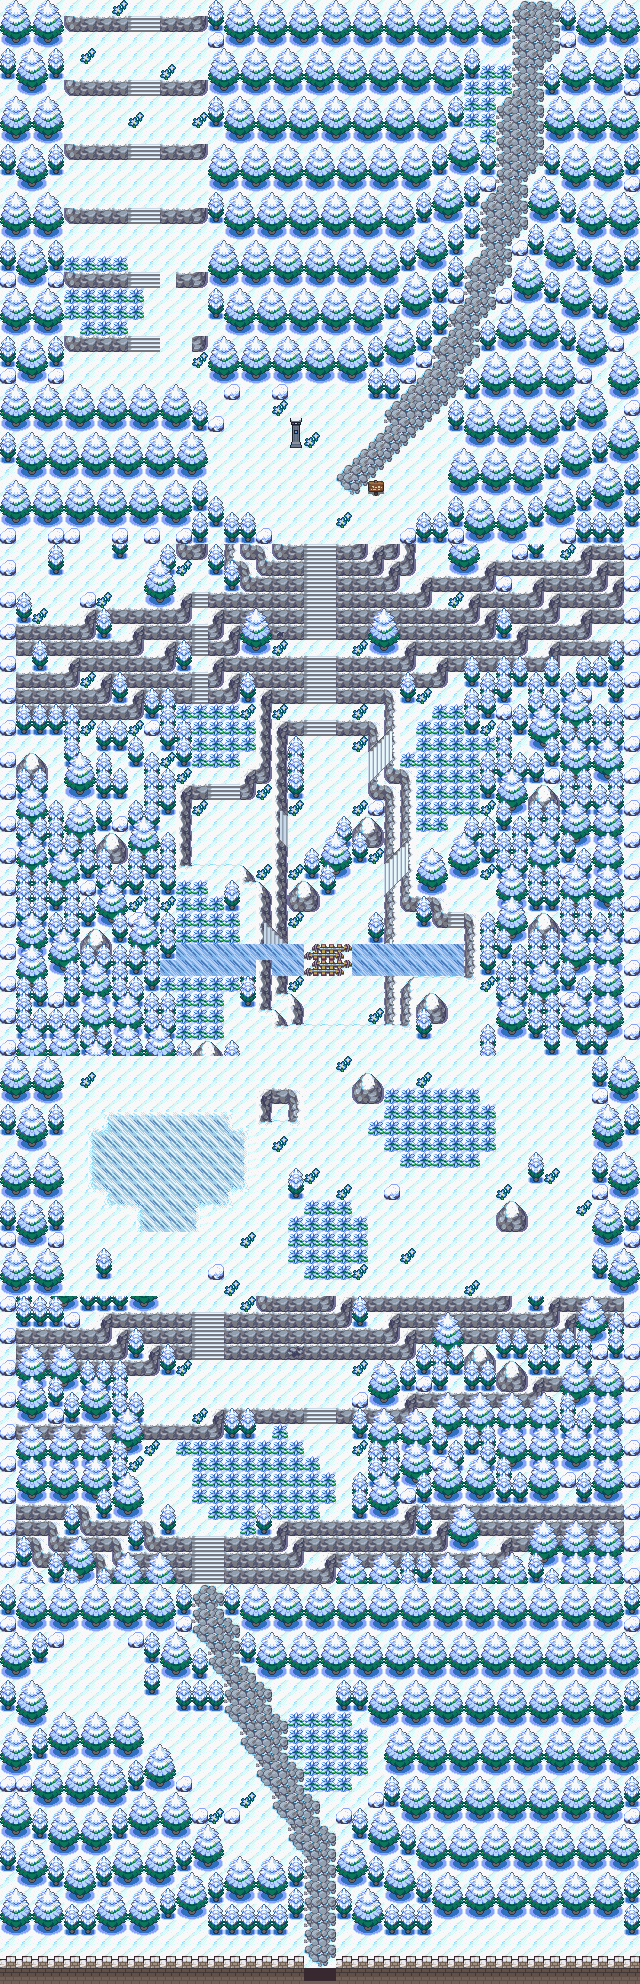
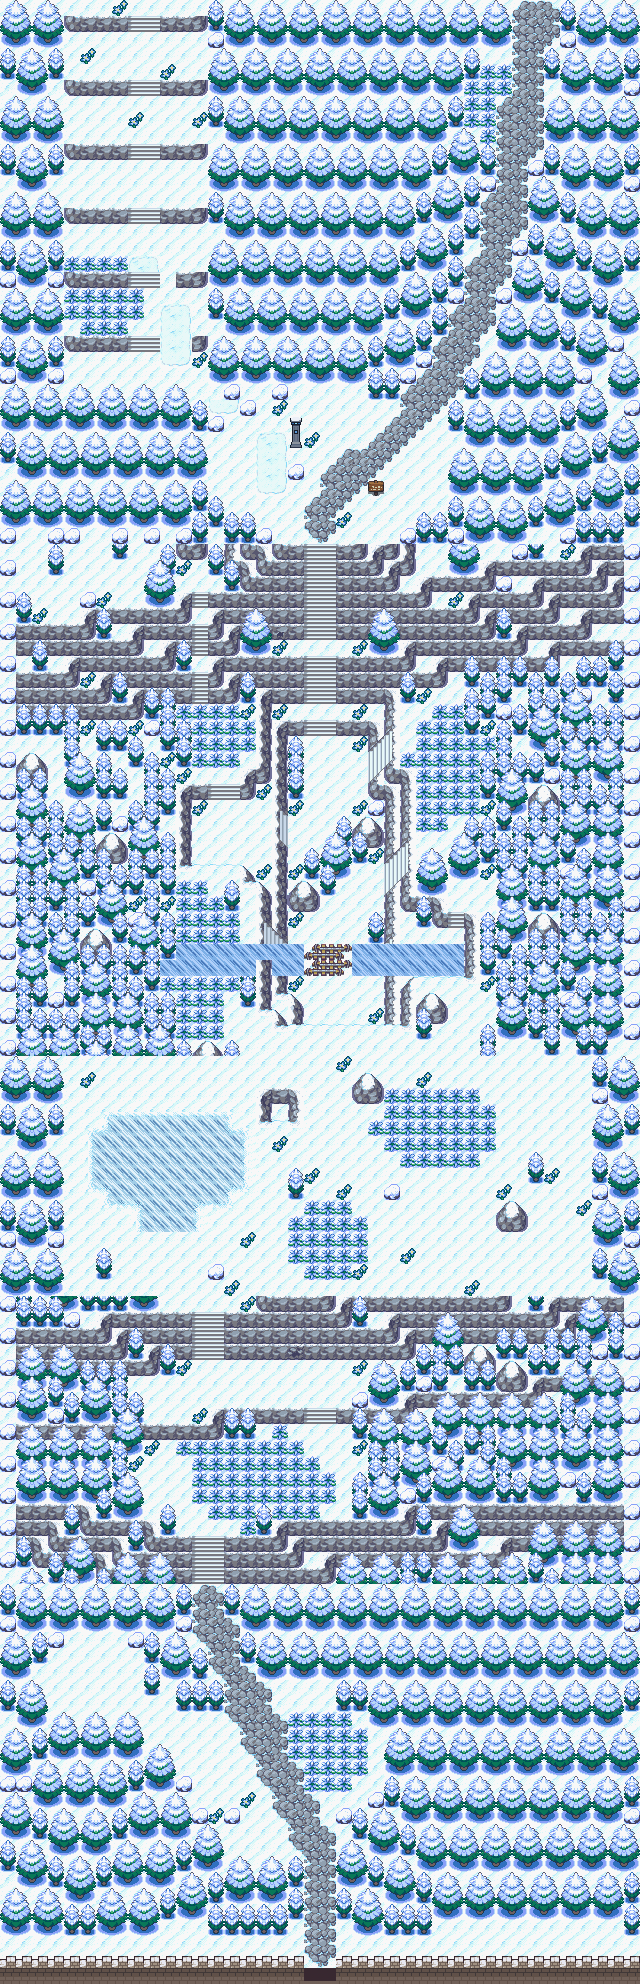
Route 13 mock v2: the paved road starts at the top of the stairs
User 2026-11-22: connect the stairs at the top to the cobbled road, to show the difference
between the wilds of Mt. Mirroh and the paved way to the Templars' HQ. The cobbles now run
from the central stairway's top across the plateau and on NE; the Mt. Mirroh trail breaks
off them unpaved, marked by Elderflower's trodden icy track in patches and a few rocks.

Claude-Session: https://claude.ai/code/session_01FHXnfqnedTHLf5QFbB3MCU

diff --git a/tools/art/route13/route13_v2.py b/tools/art/route13/route13_v2.py
@@ -173,8 +173,10 @@ def compose():
 
     # --- the fork: a snowy plateau above the central stair (R22's x 18-19 -> 19-20 here); waystone and signpost
     plateau = blob(20, 28.5, 7.5, 4.2, 'plat', 0.2)
-    road_ne = lane(((21, 30), (24, 27), (27.5, 23), (30, 17), (31.5, 11), (32.5, 5), (33, -1)), 1.25, 'ne', 0.4)
-    trail = lane(((19, 30), (15, 27), (11, 22), (9, 16), (8.5, 8), (8.5, -1)), 1.0, 'nw', 0.3)
+    # (user 2026-11-22: the paved road starts at the top of the stairs, so the fork shows the difference: the Templars'
+    # cobbles carry on to their HQ, the wilds of Mt. Mirroh are an unpaved trail breaking off them)
+    road_ne = lane(((19.5, 33.4), (19.8, 31), (21.5, 29), (24, 27), (27.5, 23), (30, 17), (31.5, 11), (32.5, 5), (33, -1)), 1.25, 'ne', 0.3)
+    trail = lane(((18.5, 30.5), (15, 27), (11, 22), (9, 16), (8.5, 8), (8.5, -1)), 1.0, 'nw', 0.3)
     spur = {(x, y) for y in range(0, 26) for x in range(W) if 13 + y * 0.28 <= x <= 27 - y * 0.30 and (x, y) not in plateau}
     upper = {(x, y) for y in range(0, FORK[1] + 1) for x in range(W)}
     openu = plateau | road_ne | trail | blob(31, 6, 2.5, 2.0, 'g6') | blob(6, 18, 2.0, 2.5, 'g5') \
@@ -194,6 +196,14 @@ def compose():
     sgn = mm.cut('c31', 23, 20, 1, 1)[0][0]
     if sgn: K.overlay(sgn[0], sgn[1], 23 * 16, 30 * 16, 'sign')
     grass(K, blob(31, 6, 2.5, 2.0, 'g6') - road_ne); grass(K, blob(6, 18, 2.0, 2.5, 'g5') - trail)
+    # the wild trail's look (user 2026-11-22: show the difference at the fork): Elderflower's trodden icy track in
+    # staggered patches from the plateau up to the first stone stair, a few rocks along its edges
+    seg = set()
+    for (x, y0, y1) in ((16, 27, 30), (13, 24, 26), (10, 19, 22), (8, 16, 18)):
+        seg |= {(xx, y) for y in range(y0, y1 + 1) for xx in (x, x + 1)}
+    seg = {c for c in seg if K.tag[c[1], c[0]] == 'snow'}
+    r1.icy_track(K, seg)
+    for (x, y) in ((15, 25), (18, 29), (12, 21), (11, 25)): rock(K, x, y)
     return K, notes
 
 def reach(K, start):
